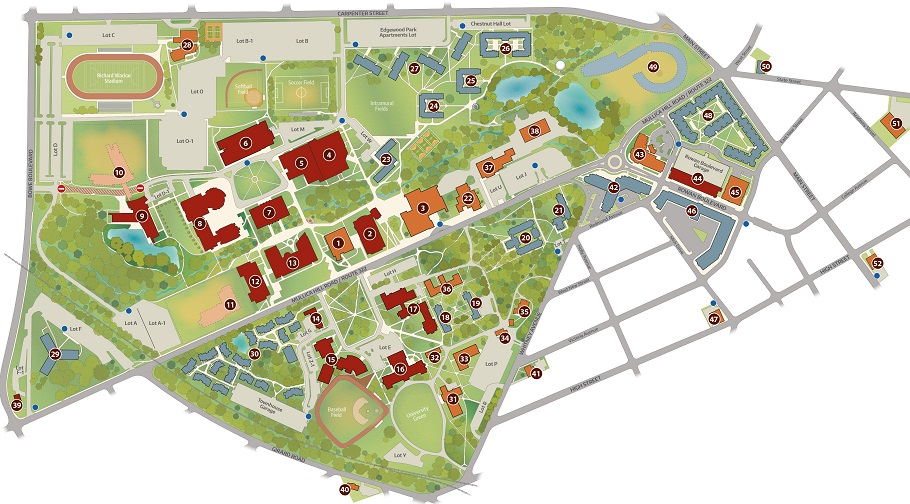
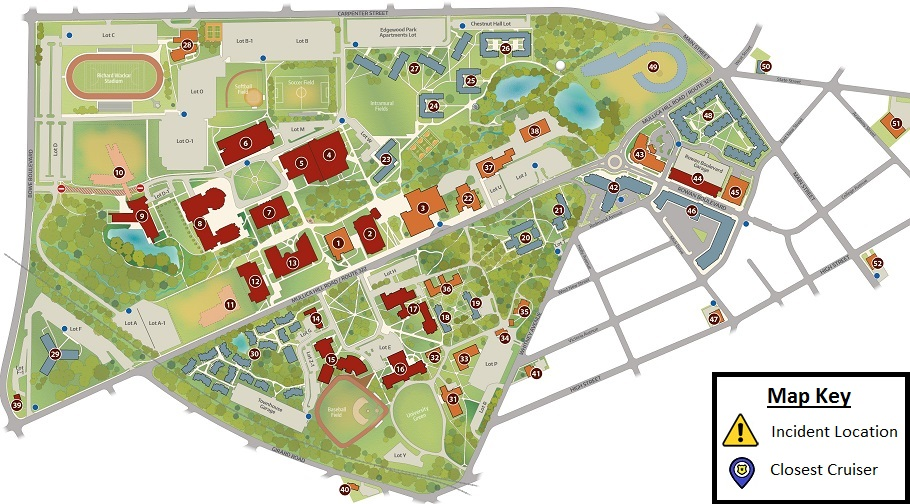
Updated the map with a key, and some minor changesto gui

Changed region(s): [[0.7692, 0.7143, 1.0, 1.0]]

diff --git a/src/VehicleCommandGUI.java b/src/VehicleCommandGUI.java
@@ -1,7 +1,5 @@
 import java.awt.*;
-import java.io.*;
 
-import javax.imageio.IIOException;
 import javax.imageio.ImageIO;
 import javax.swing.*;
 import javax.swing.border.EmptyBorder;
@@ -10,24 +8,12 @@ import javax.swing.border.LineBorder;
 import java.awt.event.MouseAdapter;
 import java.awt.event.MouseEvent;
 import java.awt.image.BufferedImage;
-import java.io.BufferedWriter;
 import java.io.File;
-import java.io.FileWriter;
 import java.io.IOException;
-import java.text.DateFormat;
-import java.text.SimpleDateFormat;
 import java.util.ArrayList;
-import java.util.Date;
-import java.util.Random;
-import java.util.Vector;
 
 import javax.swing.event.ListSelectionListener;
 import javax.swing.event.ListSelectionEvent;
-
-import java.awt.event.InputMethodListener;
-import java.awt.event.InputMethodEvent;
-import java.beans.PropertyChangeListener;
-import java.beans.PropertyChangeEvent;
 
 public class VehicleCommandGUI extends JFrame {
 
@@ -48,8 +34,8 @@ public class VehicleCommandGUI extends JFrame {
 	private JPanel locationSelection;
 	private JLabel lblIncidentUrgencySelection;
 	private JLabel lblLocationSelection;
-	private JList listOfLocations;
-	private JList listOfIncidentLevels;
+	private JList<Object> listOfLocations;
+	private JList<Object> listOfIncidentLevels;
 	private JComboBox<IncidentType> incidentSelectionComboBox;
 	private Component verticalStrut_1;
 	private Component verticalStrut_2;
@@ -110,7 +96,7 @@ public class VehicleCommandGUI extends JFrame {
 		recVehicle.setToolTipText("Additional Vehicles");
 		recVehicle.setBorder(new LineBorder(new Color(128, 128, 128), 1, true));
 
-		JLabel recVehiclesLabel = new JLabel("Additional Vehicle Types");
+		JLabel recVehiclesLabel = new JLabel("Additional Vehicles Requested");
 		recVehiclesLabel.setHorizontalAlignment(SwingConstants.CENTER);
 
 		JPanel recVehicleBoxes = new JPanel();
@@ -300,13 +286,13 @@ public class VehicleCommandGUI extends JFrame {
 		verticalStrut_4 = Box.createVerticalStrut(3);
 		incidentSelection.add(verticalStrut_4);
 
-		lblIncidentUrgencySelection = new JLabel("Incident Urgency Level");
+		lblIncidentUrgencySelection = new JLabel("   Incident Urgency Level   ");
 		lblIncidentUrgencySelection.setAlignmentX(Component.CENTER_ALIGNMENT);
 		lblIncidentUrgencySelection
 		.setHorizontalAlignment(SwingConstants.CENTER);
 		incidentSelection.add(lblIncidentUrgencySelection);
 
-		listOfIncidentLevels = new JList(UrgencyLevel.values());
+		listOfIncidentLevels = new JList<Object>(UrgencyLevel.values());
 		listOfIncidentLevels.addMouseListener(new MouseAdapter() {
 			@Override
 			public void mouseClicked(MouseEvent arg0) {
